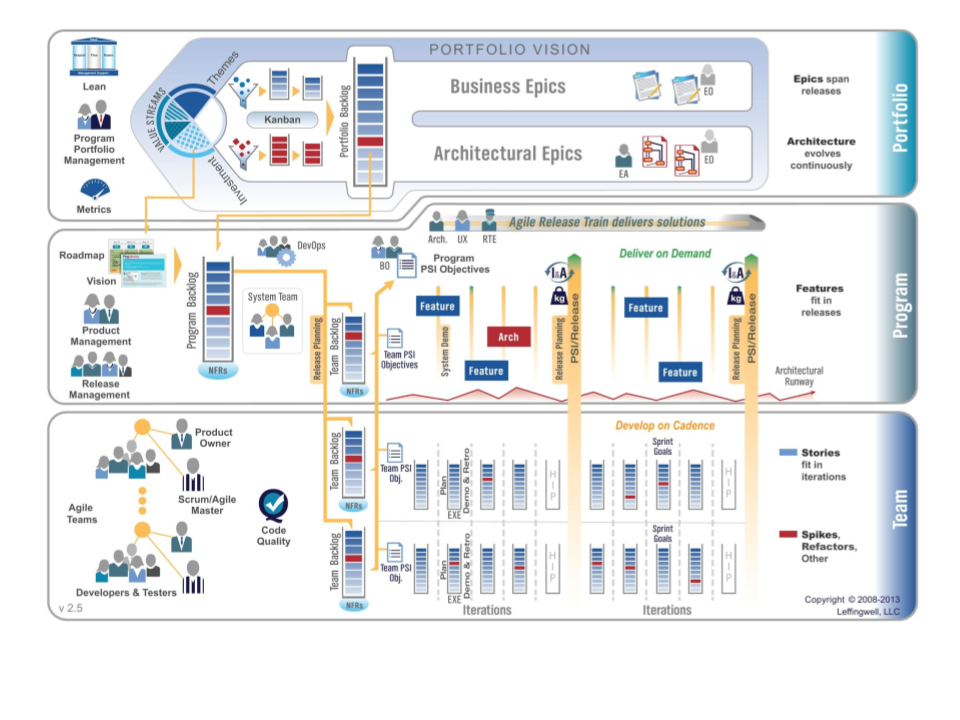
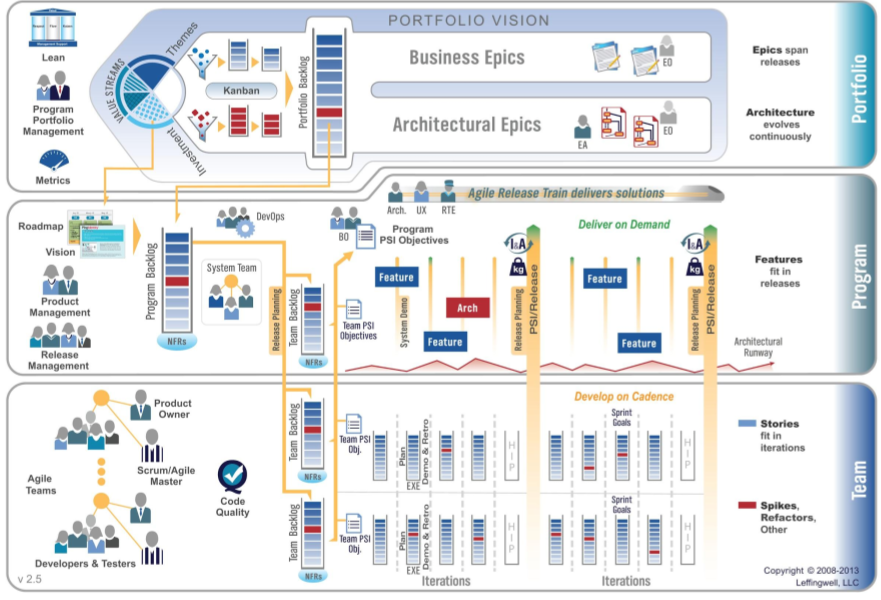
Resize image

diff --git a/organisation/intro.tex b/organisation/intro.tex
@@ -12,14 +12,17 @@ En 2011, après une série de levées de fonds, Bonitasoft a pu commercialiser s
 
 \subsection{Organisation}
 Bonitasoft a quatre bureaux principaux, aux États-Unis, à San Francisco et à New York, en France à Paris et à Grenoble.
-Les activités sont organisées et divisées en 5 differents services:
+Les activités sont organisées et divisées en 5 différents services. Figure \ref{fig:equipe_travail}:
 
-\begin{center}
+\begin{figure}[h!]
+  \centering
   \smartdiagramset{bubble node size=4cm, bubble center node size=6cm}
   \smartdiagram[bubble diagram]{Bonitasoft,
   IT,Service Professionnel,
   R\&D, Support, Succès du Client}
-\end{center}
+  \caption{Équipes de travail}
+  \label{fig:equipe_travail}
+\end{figure}
 
 Nous pouvons regarder l'organigramme dans l'Appendice \ref{appen:organigramme_general}.
 

diff --git a/product/bonita.tex b/product/bonita.tex
@@ -26,8 +26,8 @@ Le Studio contient une Plate-forme Bonita (Tomcat, UI Designer, Bonita Portal, B
 C'est le runtime processeur au cœur de Bonita. Il exécute des processus, en traitant des actions liées aux tâches, comme l'accès de base de données. Le Moteur est composé d'un certain nombre de services et API. Les services sont des services BPM ou des services génériques.
 
 \begin{figure}[!ht]
-\centering
-\includegraphics[width=\textwidth,keepaspectratio]{bonita_archi.png}
+\advance\leftskip-1cm
+\includegraphics[scale=0.6]{bonita_archi.png}
 \caption{Bonita Architecture}
 \label{fig:bonita_archi}
 \end{figure}

diff --git a/product/intro.tex b/product/intro.tex
@@ -5,9 +5,10 @@ Dans cette partie, nous allons introduire de manière simple tous les produits p
 
 Dans la Figure \ref{fig:bonita_add-on}, nous avons une vision globale de tous les produits et de l'interaction entre eux.
 
+
 \begin{figure}[!ht]
-\centering
-\includegraphics[width=\textwidth,keepaspectratio]{bonita_add-on_archi.png}
+\advance\leftskip-2cm
+\includegraphics[scale=0.55]{bonita_add-on_archi.png}
 \caption{Interaction entre Produits}
 \label{fig:bonita_add-on}
 \end{figure}

diff --git a/organisation/together.tex b/organisation/together.tex
@@ -5,8 +5,8 @@ Toutes les équipes dans l'entreprise travaillent en suivant la méthodologie Ag
 D'une façon globale, Bonitasoft travaille avec le framework représenté dans la Figure \ref{frame_safe}
 
 \begin{figure}[!ht]
-\centering
-\includegraphics[width=\textwidth,keepaspectratio]{safe_framework.png}
+\advance\leftskip-2cm
+\includegraphics[scale=0.55]{safe_framework.png}
 \caption{Cadre de Travail \cite{safe}}
 \label{frame_safe}
 \end{figure}
